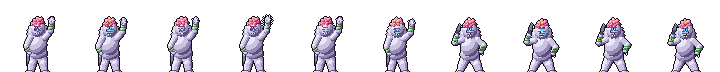
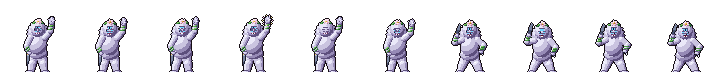
Bosses: a paler, smaller bloom for the Blossom; a taller, leaner Five-Eyed whose head slopes into his arms
Claude-Session: https://claude.ai/code/session_01JpLHzsYAvEKzmccr94t7N9

diff --git a/android/art/rig/yeti.py b/android/art/rig/yeti.py
@@ -16,34 +16,35 @@ def yeti(pose):
     r=Rig(); b=pose.get('bob',0); hurt=pose.get('hurt',False)
     hy=b
     # legs: thick, bowed, clawed feet
-    for side,(hx,kx,fx) in ((-1,(42,36,33)),(1,(58,64,67))):
-        r.cap(hx,72+hy,10,kx,86+hy*0.5,8.5,FUR,1,fur=0.08)
-        r.cap(kx,86+hy*0.5,8.5,fx,96,7,FUR,1,fur=0.06)
-        r.ell(fx+side*2,97.5,9,3.6,SKIN,2,edge=True)
+    for side,(hx,kx,fx) in ((-1,(44,41,39)),(1,(56,59,61))):
+        r.cap(hx,72+hy,7.5,kx,86+hy*0.5,6.5,FUR,1,fur=0.08)
+        r.cap(kx,86+hy*0.5,6.5,fx,96,5.5,FUR,1,fur=0.06)
+        r.ell(fx+side*2,97.5,7.5,3.2,SKIN,2,edge=True)
         for k in(-1,0,1): r.poly([(fx+side*2+k*4-1.4,98.5),(fx+side*2+k*4+side*2.2,101),(fx+side*2+k*4+1.4,98.5)],BONE,3,flat=3)
     # the hulking body
-    r.ell(50,60+hy,26,23,FUR,3,fur=0.07,furn=20)
-    r.ell(50,67+hy,15,13,BELLY,4,fur=0.04,furn=16,flat=None)
-    # shoulders, hunched high
-    r.ell(28,44+hy,13,11,FUR,5,fur=0.1,furn=10)
-    r.ell(72,44+hy,13,11,FUR,5,fur=0.1,furn=10)
-    # head, sunk between them, a shaggy mane
-    r.ell(50,28+hy,19,9,FUR,6,fur=0.25,furn=16)
-    r.ell(50,36+hy,16,13.5,SKIN,7,fur=0.0)
+    r.ell(50,60+hy,18,22,FUR,3,fur=0.07,furn=20)
+    r.ell(50,66+hy,10.5,12,BELLY,4,fur=0.04,furn=16,flat=None)
+    # no neck: the head runs down in two shaggy slopes straight into the arms
+    r.poly([(50,18+hy),(60,22+hy),(70,46+hy),(62,54+hy),(38,54+hy),(30,46+hy),(40,22+hy)],FUR,5,edge=False)
+    r.cap(47,22+hy,7,32,46+hy,7.5,FUR,5,fur=0.14,edge=False)
+    r.cap(53,22+hy,7,68,46+hy,7.5,FUR,5,fur=0.14,edge=False)
+    # the head, set into the slope, a shaggy mane
+    r.ell(50,28+hy,15,8,FUR,6,fur=0.25,furn=16)
+    r.ell(50,36+hy,13,12.5,SKIN,7,fur=0.0)
     r.ell(50,22.5+hy,14,4.5,FUR,8,fur=0.22,furn=14)
     # horns, curling up and out
     for side in(-1,1):
         r.poly([(50+side*9,24+hy),(50+side*19,18+hy),(50+side*23,8+hy),(50+side*19,12+hy),(50+side*14,17+hy),(50+side*7,21+hy)],HORN,9,grad=(0.2,1))
     # arms
     def arm(side,mode):
-        sx=50+side*24; sy=46+hy
-        if mode=='down': e=(sx+side*6,64+hy); w=(sx+side*7,80+hy)
-        elif mode=='out': e=(sx+side*14,50+hy); w=(sx+side*27,46+hy)
-        elif mode=='reach': e=(sx+side*10,58+hy); w=(sx+side*13,70+hy)
-        else: e=(sx+side*10,30+hy); w=(sx+side*8,14+hy)   # up
-        r.cap(sx,sy,8.5,e[0],e[1],7.5,FUR,10,fur=0.12)
-        r.cap(e[0],e[1],7.5,w[0],w[1],6,FUR,10,fur=0.1)
-        r.ell(w[0],w[1]+2,6.5,6,SKIN,11,edge=True)
+        sx=50+side*18; sy=47+hy
+        if mode=='down': e=(sx+side*5,66+hy); w=(sx+side*6,84+hy)
+        elif mode=='out': e=(sx+side*13,52+hy); w=(sx+side*26,47+hy)
+        elif mode=='reach': e=(sx+side*9,61+hy); w=(sx+side*12,76+hy)
+        else: e=(sx+side*9,30+hy); w=(sx+side*7,12+hy)   # up
+        r.cap(sx,sy,7,e[0],e[1],6.2,FUR,10,fur=0.12)
+        r.cap(e[0],e[1],6.2,w[0],w[1],5,FUR,10,fur=0.1)
+        r.ell(w[0],w[1]+2,5.6,5.2,SKIN,11,edge=True)
         # claws
         dirx=w[0]-e[0]; diry=w[1]-e[1]; dl=math.hypot(dirx,diry); ux=dirx/dl; uy=diry/dl
         for k in(-1,0,1):
@@ -68,7 +69,7 @@ def yeti(pose):
         r.poly(pts,STEEL,14,grad=(0,1))
     r.cap(top[0]-ux*7,top[1]-uy*7,3.2,top[0]+ux*1,top[1]+uy*1,3.2,STEEL,15,edge=True)
     # the hand closes over the haft
-    r.ell(ax,ay,6.5,6,SKIN,16,edge=True)
+    r.ell(ax,ay,5.6,5.2,SKIN,16,edge=True)
 
     blink=pose.get('blink',False); mouth=pose.get('mouth',0.3)
     def face(g,sc,ox,oy):
@@ -119,10 +120,10 @@ POSES={
 }
 if __name__=='__main__':
     # the hall sheet: 6 cells of 72, figure 56 tall standing on the cell's floor
-    sc=0.56
+    sc=0.62
     sheet=Image.new('RGBA',(72*6,72),(0,0,0,0))
     for f in range(6):
-        g=yeti(POSES[f]).render(72,72,ox=-8/sc-3,oy=-16/sc-2,scale=sc)
+        g=yeti(POSES[f]).render(72,72,ox=-8,oy=-13.5,scale=sc)
         sheet.alpha_composite(to_img(g),(f*72,0))
     sheet.save('hall_yeti_axe.png')
     # the duel: menacing, axe raised

diff --git a/android/art/rig/blossom.py b/android/art/rig/blossom.py
@@ -3,7 +3,7 @@ sys.path.insert(0,'.')
 from rig import *
 FUR=[(92,78,124),(150,138,182),(202,196,224),(234,232,248),(255,255,255)]
 SKIN=[(96,82,128),(160,148,196),(208,202,232),(234,232,250),(255,255,255)]
-PETAL=[(140,34,84),(214,74,134),(246,134,180),(255,192,218),(255,236,244)]
+PETAL=[(176,120,150),(226,176,200),(246,220,232),(255,240,246),(255,252,254)]
 LEAF=[(22,66,38),(40,106,52),(76,156,68),(126,198,96),(186,234,146)]
 STEEL=[(28,32,50),(70,78,106),(122,132,160),(176,186,210),(232,238,250)]
 GOLDR=[(110,70,20),(170,120,30),(224,176,56),(248,214,96),(255,244,190)]
@@ -34,8 +34,8 @@ def blossom(pose):
             a=k*1.047+0.3
             r.ell(cx+math.cos(a)*R*0.8,cy+math.sin(a)*R*0.55,R*0.62,R*0.45,PETAL,layer,rot=a)
         r.ell(cx,cy,R*0.42,R*0.36,GOLDR,layer+1)
-    r.ell(hx0-8,hy0-11,5,2.2,LEAF,8,rot=-0.5); r.ell(hx0+8,hy0-12,5,2.2,LEAF,8,rot=0.5)
-    bloom(hx0+1,hy0-14,7,9); bloom(hx0-7,hy0-9,4.2,11)
+    r.ell(hx0-6,hy0-11,4.6,2,LEAF,8,rot=-0.5); r.ell(hx0+7,hy0-11.5,4.6,2,LEAF,8,rot=0.5); r.ell(hx0+1,hy0-13.5,3.6,1.8,LEAF,8,rot=0.1)
+    bloom(hx0+1,hy0-13,4.4,9)
     # arms
     def limb(sx,sy,ex,ey,wx,wy,layer):
         r.cap(sx,sy,5.5,ex,ey,4.8,FUR,layer,fur=0.1)
